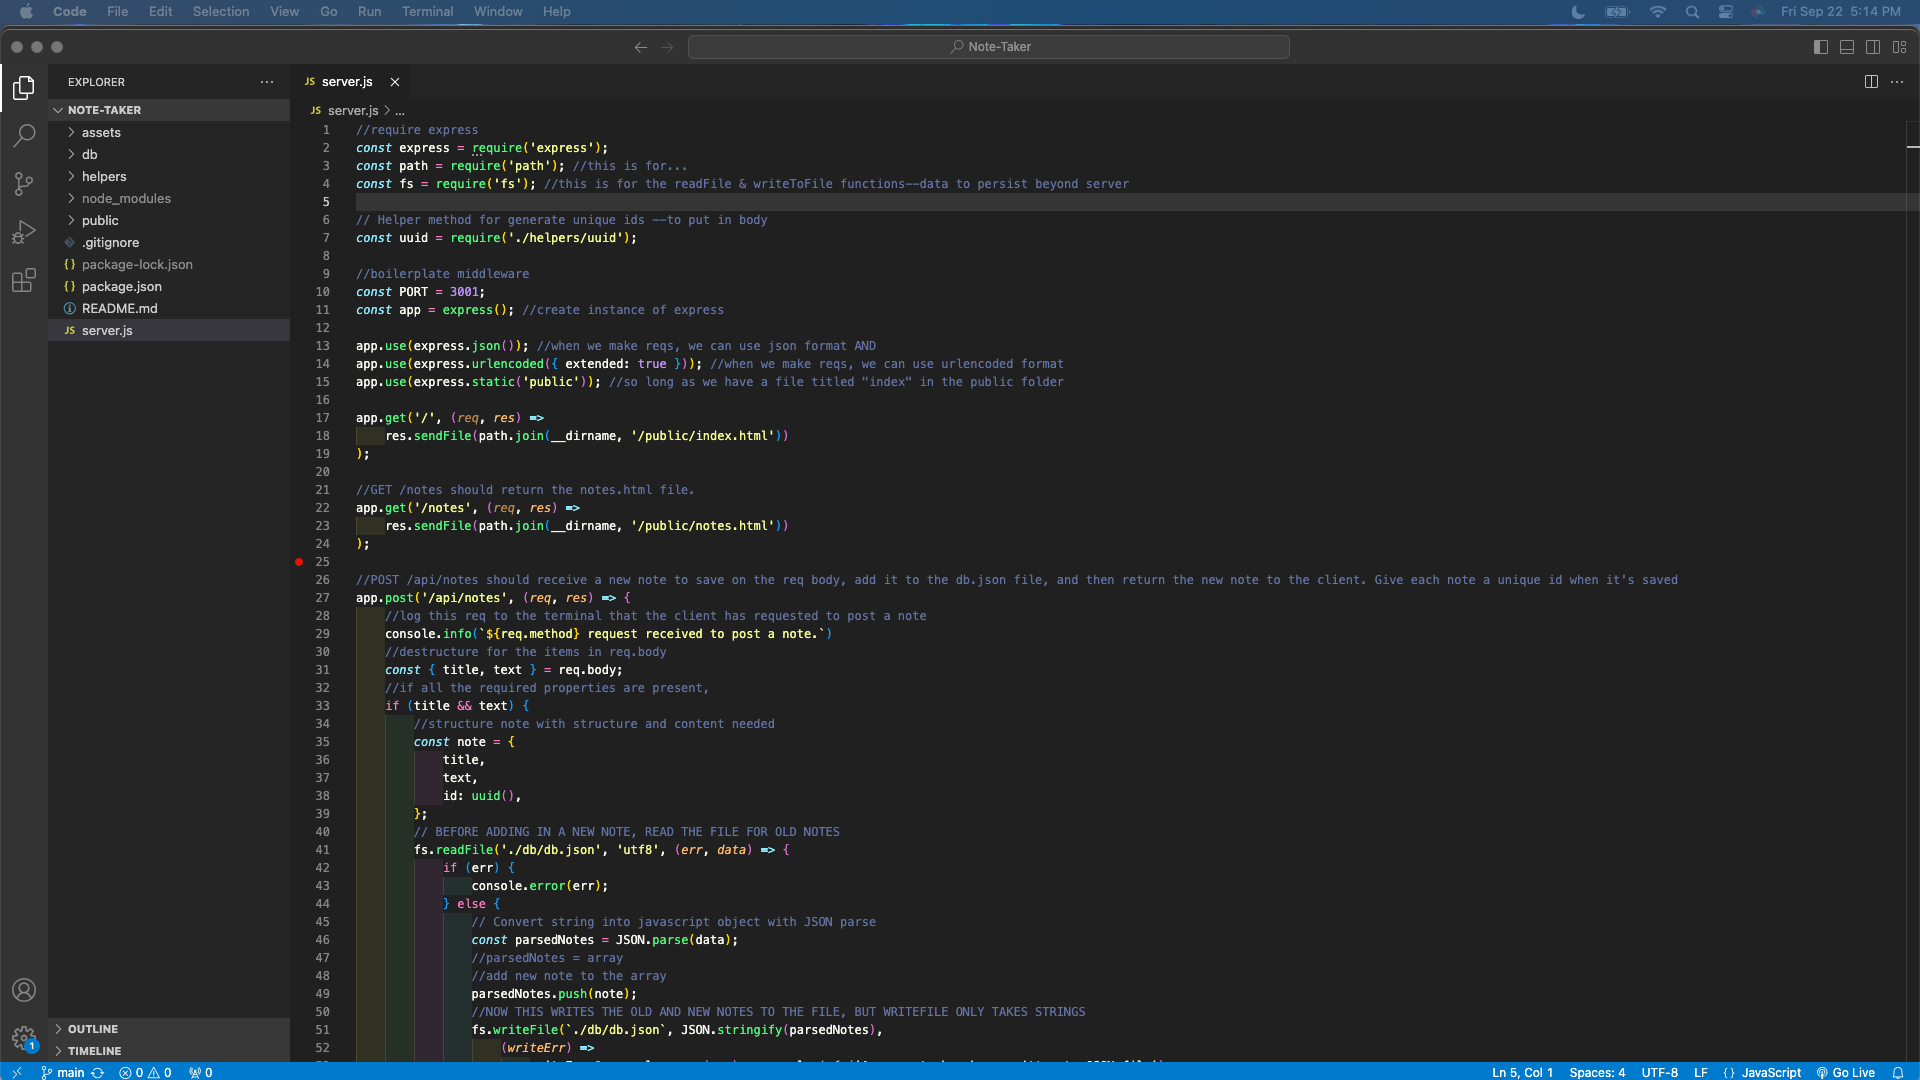
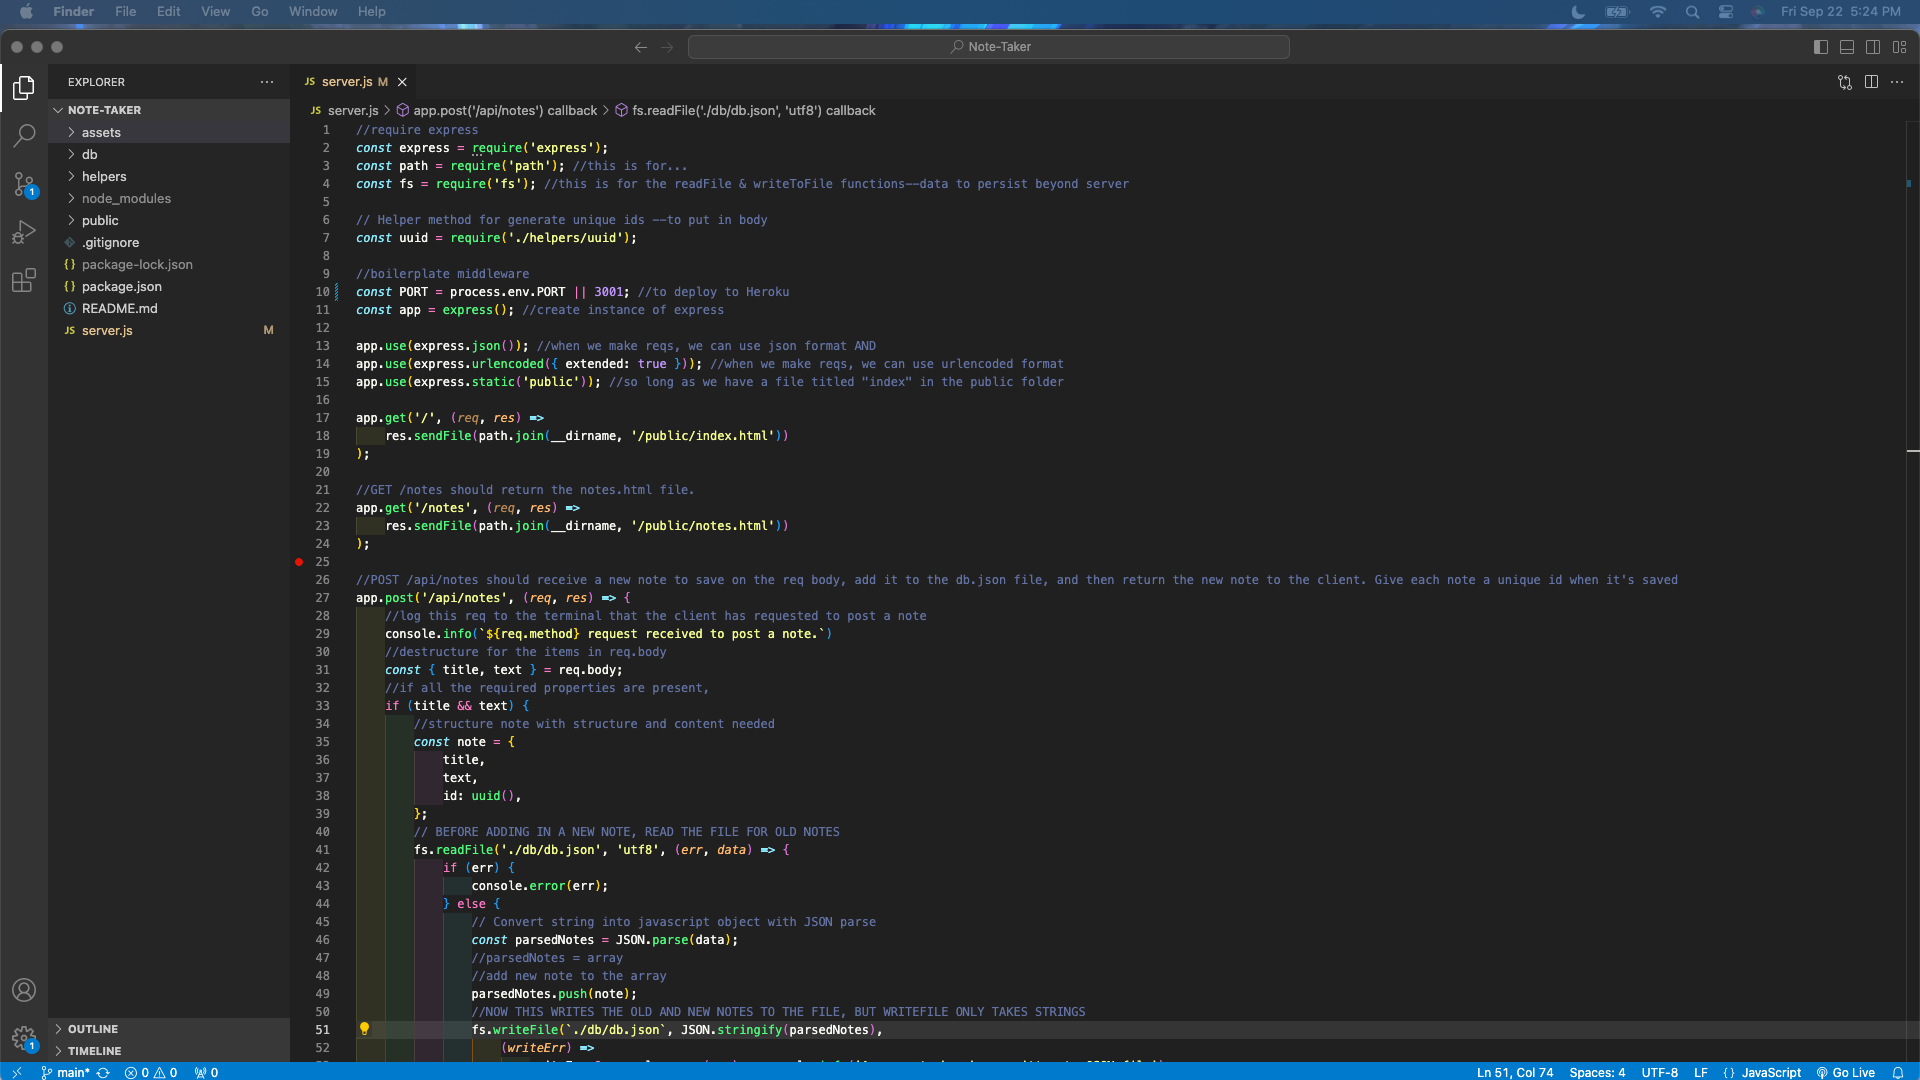
updated PORT for heroku and updated screenshot

diff --git a/server.js b/server.js
@@ -7,7 +7,7 @@ const fs = require('fs'); //this is for the readFile & writeToFile functions--da
 const uuid = require('./helpers/uuid');
 
 //boilerplate middleware
-const PORT = 3001;
+const PORT = process.env.PORT || 3001; //to deploy to Heroku
 const app = express(); //create instance of express
 
 app.use(express.json()); //when we make reqs, we can use json format AND
